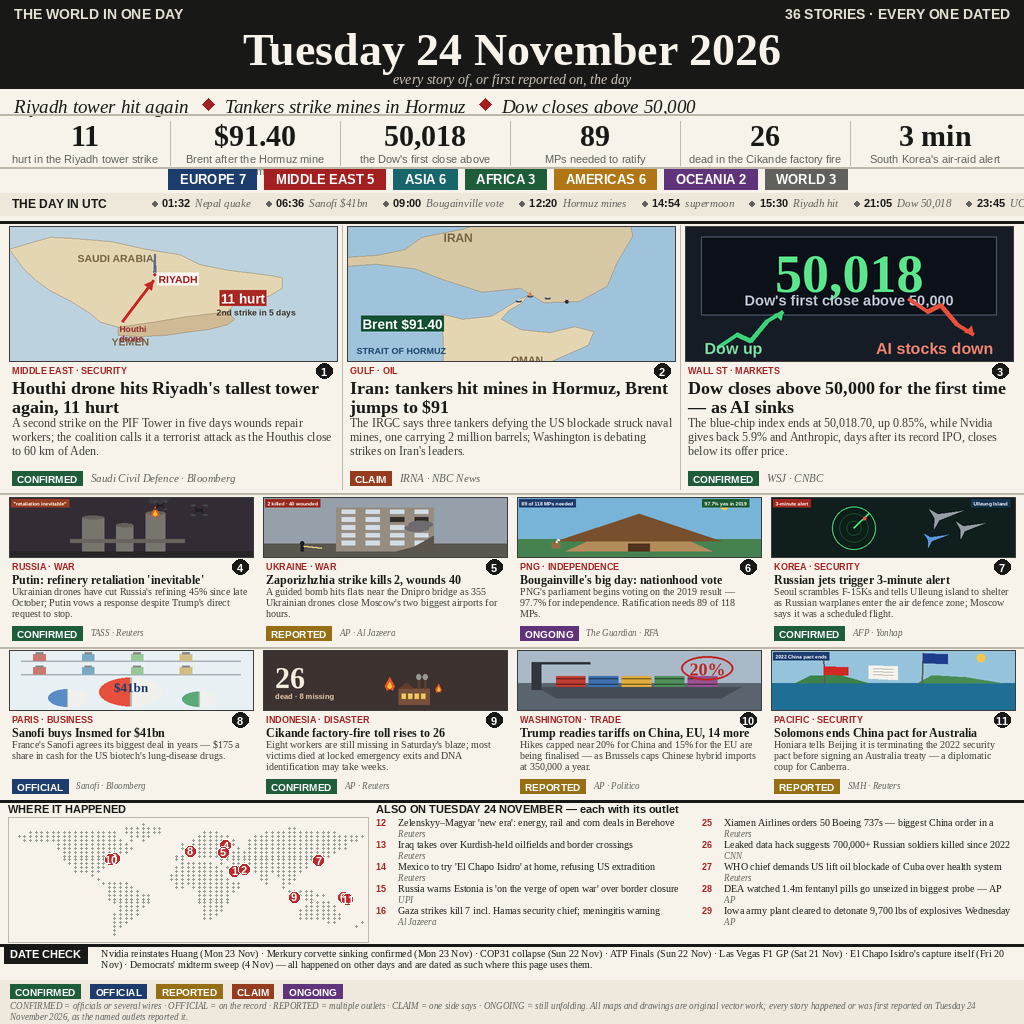
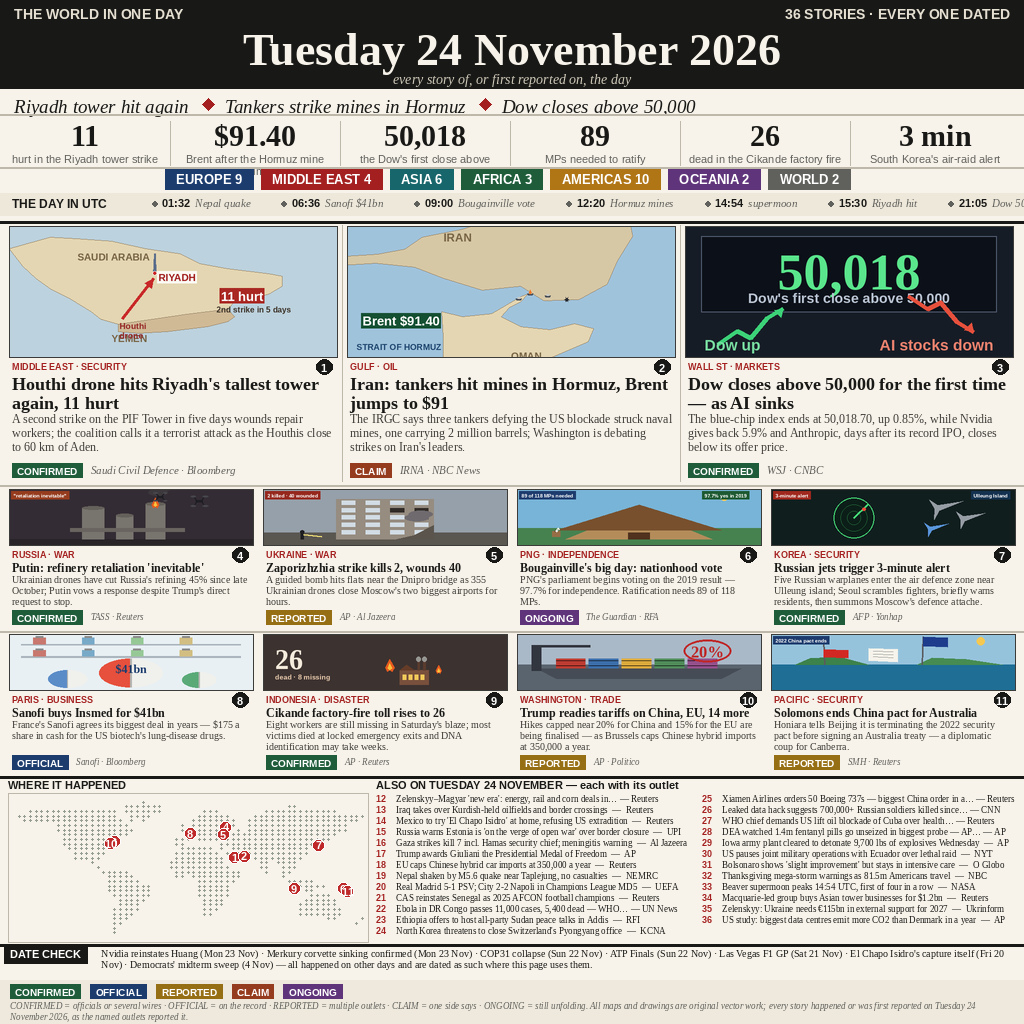
v7: continuous 12-36 also-numbering, region counts that sum to 36, verified KADIZ body

Changed region(s): [[0.0, 0.25, 1.0, 0.9375], [0.1562, 0.1562, 1.0, 0.25], [0.0625, 0.2812, 0.0938, 0.3125]]

diff --git a/README.md b/README.md
@@ -23,7 +23,7 @@ newspaper front page. An entry in [make.fun](https://make.fun/bounty/news-image-
   Trump's prepared tariffs alongside the EU's 350,000-a-year cap on Chinese hybrids,
   and the Solomon Islands ending its China security pact for an Australia treaty.
 - **A dotted world map** whose numbered pins match the story cards, and an also-list of
-  24 further dated briefs, each with its outlet.
+  25 further dated briefs, each with its outlet — every brief numbered in sequence.
 - **A DATE CHECK box** naming the big circulating stories that belong to other days
   (Nvidia's Monday announcement, the Merkury corvette, COP31, the ATP Finals) and a
   certainty legend — CONFIRMED / OFFICIAL / REPORTED / CLAIM / ONGOING.
